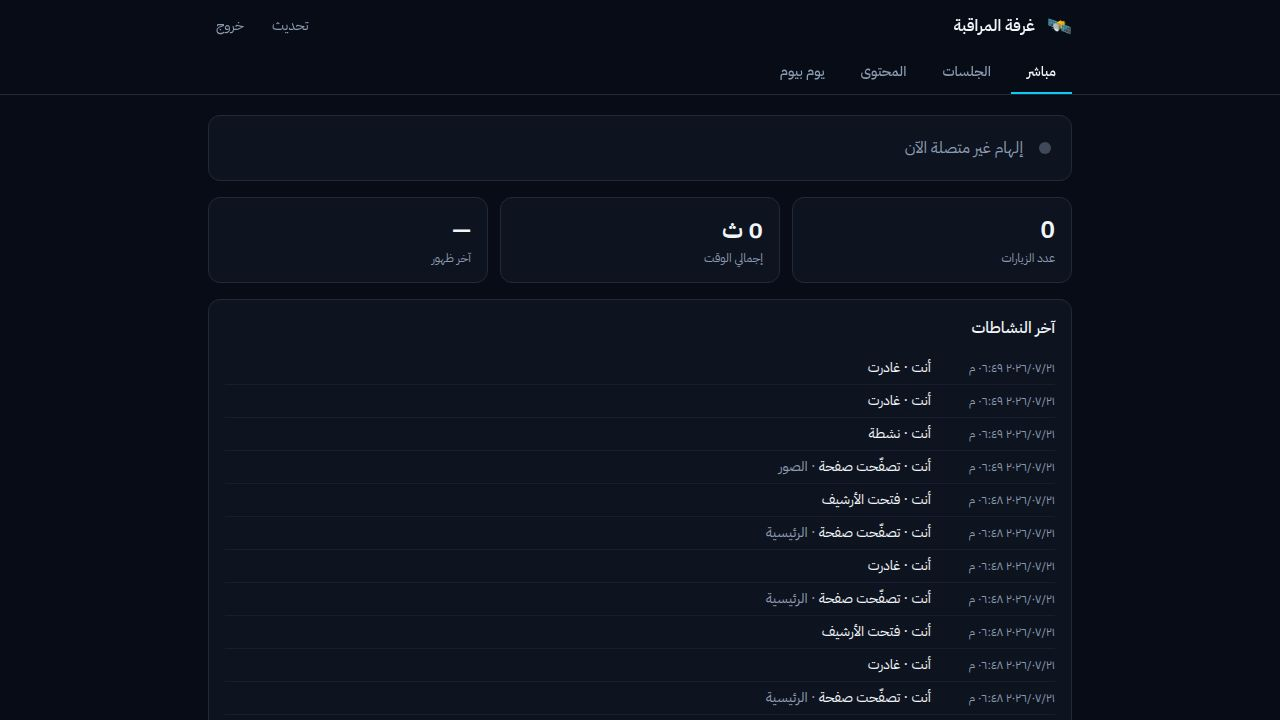
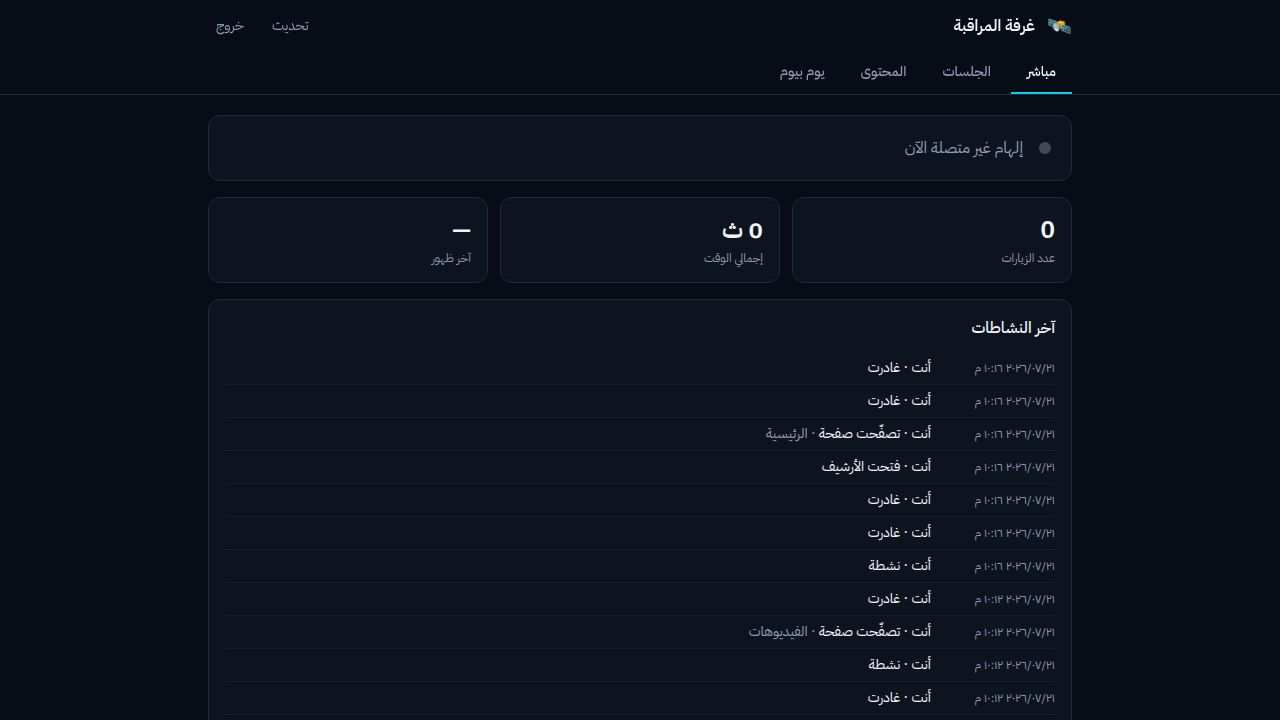
Update application build process to handle environment variables
Modify vite.config.ts to make PORT and BASE_PATH optional during the build process, ensuring successful deployment.

Replit-Commit-Author: Agent
Replit-Commit-Session-Id: 0102501e-18de-4a23-aa37-9f756b29da8b
Replit-Commit-Checkpoint-Type: full_checkpoint
Replit-Commit-Event-Id: bfbd4605-326f-4bab-b94e-819f3616e14e
Replit-Commit-Screenshot-Url: https://storage.googleapis.com/screenshot-production-us-central1/9dafe3ae-fa5f-4016-ab3d-7e33ef476012/0102501e-18de-4a23-aa37-9f756b29da8b/Jg3pxfU
Replit-Helium-Checkpoint-Created: true

diff --git a/artifacts/monitor/vite.config.ts b/artifacts/monitor/vite.config.ts
@@ -4,27 +4,29 @@ import tailwindcss from "@tailwindcss/vite";
 import path from "path";
 import runtimeErrorOverlay from "@replit/vite-plugin-runtime-error-modal";
 
-const rawPort = process.env.PORT;
+const isBuild =
+  process.env.NODE_ENV === "production" || process.argv.includes("build");
 
-if (!rawPort) {
-  throw new Error(
-    "PORT environment variable is required but was not provided.",
-  );
+if (!isBuild) {
+  if (!process.env.PORT) {
+    throw new Error(
+      "PORT environment variable is required but was not provided.",
+    );
+  }
+  if (!process.env.BASE_PATH) {
+    throw new Error(
+      "BASE_PATH environment variable is required but was not provided.",
+    );
+  }
 }
 
-const port = Number(rawPort);
+const port = Number(process.env.PORT || 25796);
 
 if (Number.isNaN(port) || port <= 0) {
-  throw new Error(`Invalid PORT value: "${rawPort}"`);
+  throw new Error(`Invalid PORT value: "${process.env.PORT}"`);
 }
 
-const basePath = process.env.BASE_PATH;
-
-if (!basePath) {
-  throw new Error(
-    "BASE_PATH environment variable is required but was not provided.",
-  );
-}
+const basePath = process.env.BASE_PATH || "/monitor/";
 
 export default defineConfig({
   base: basePath,